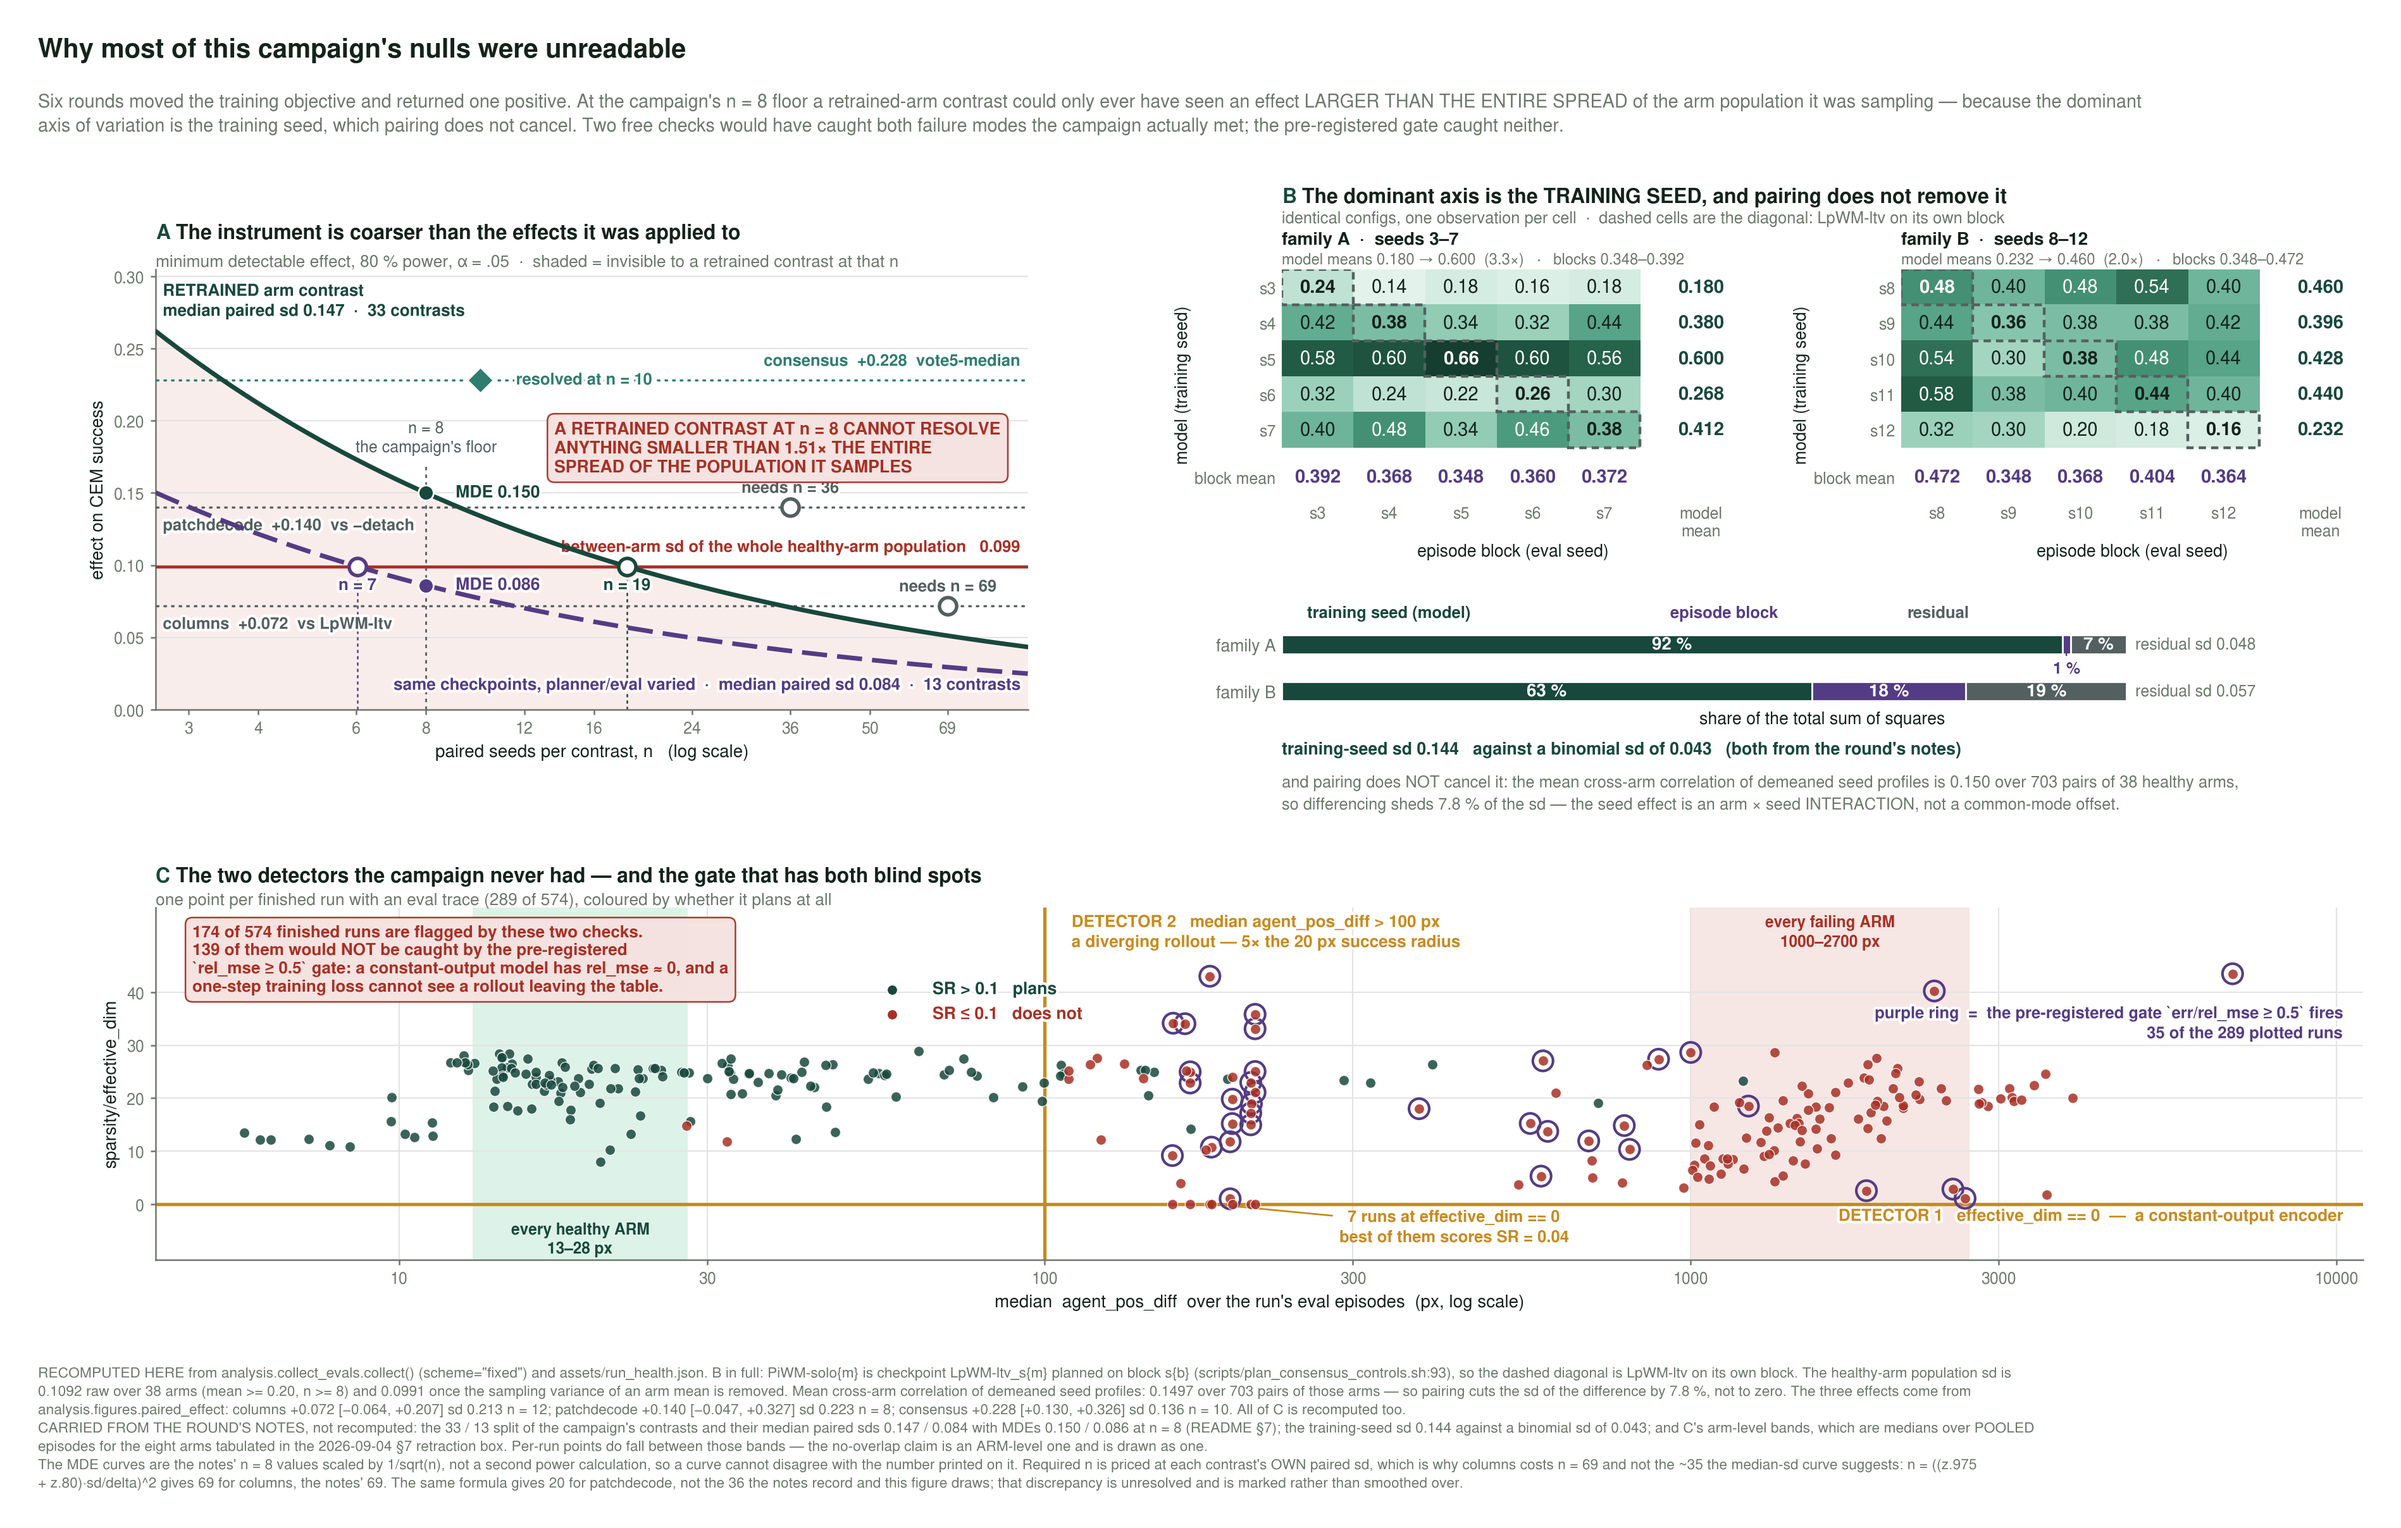
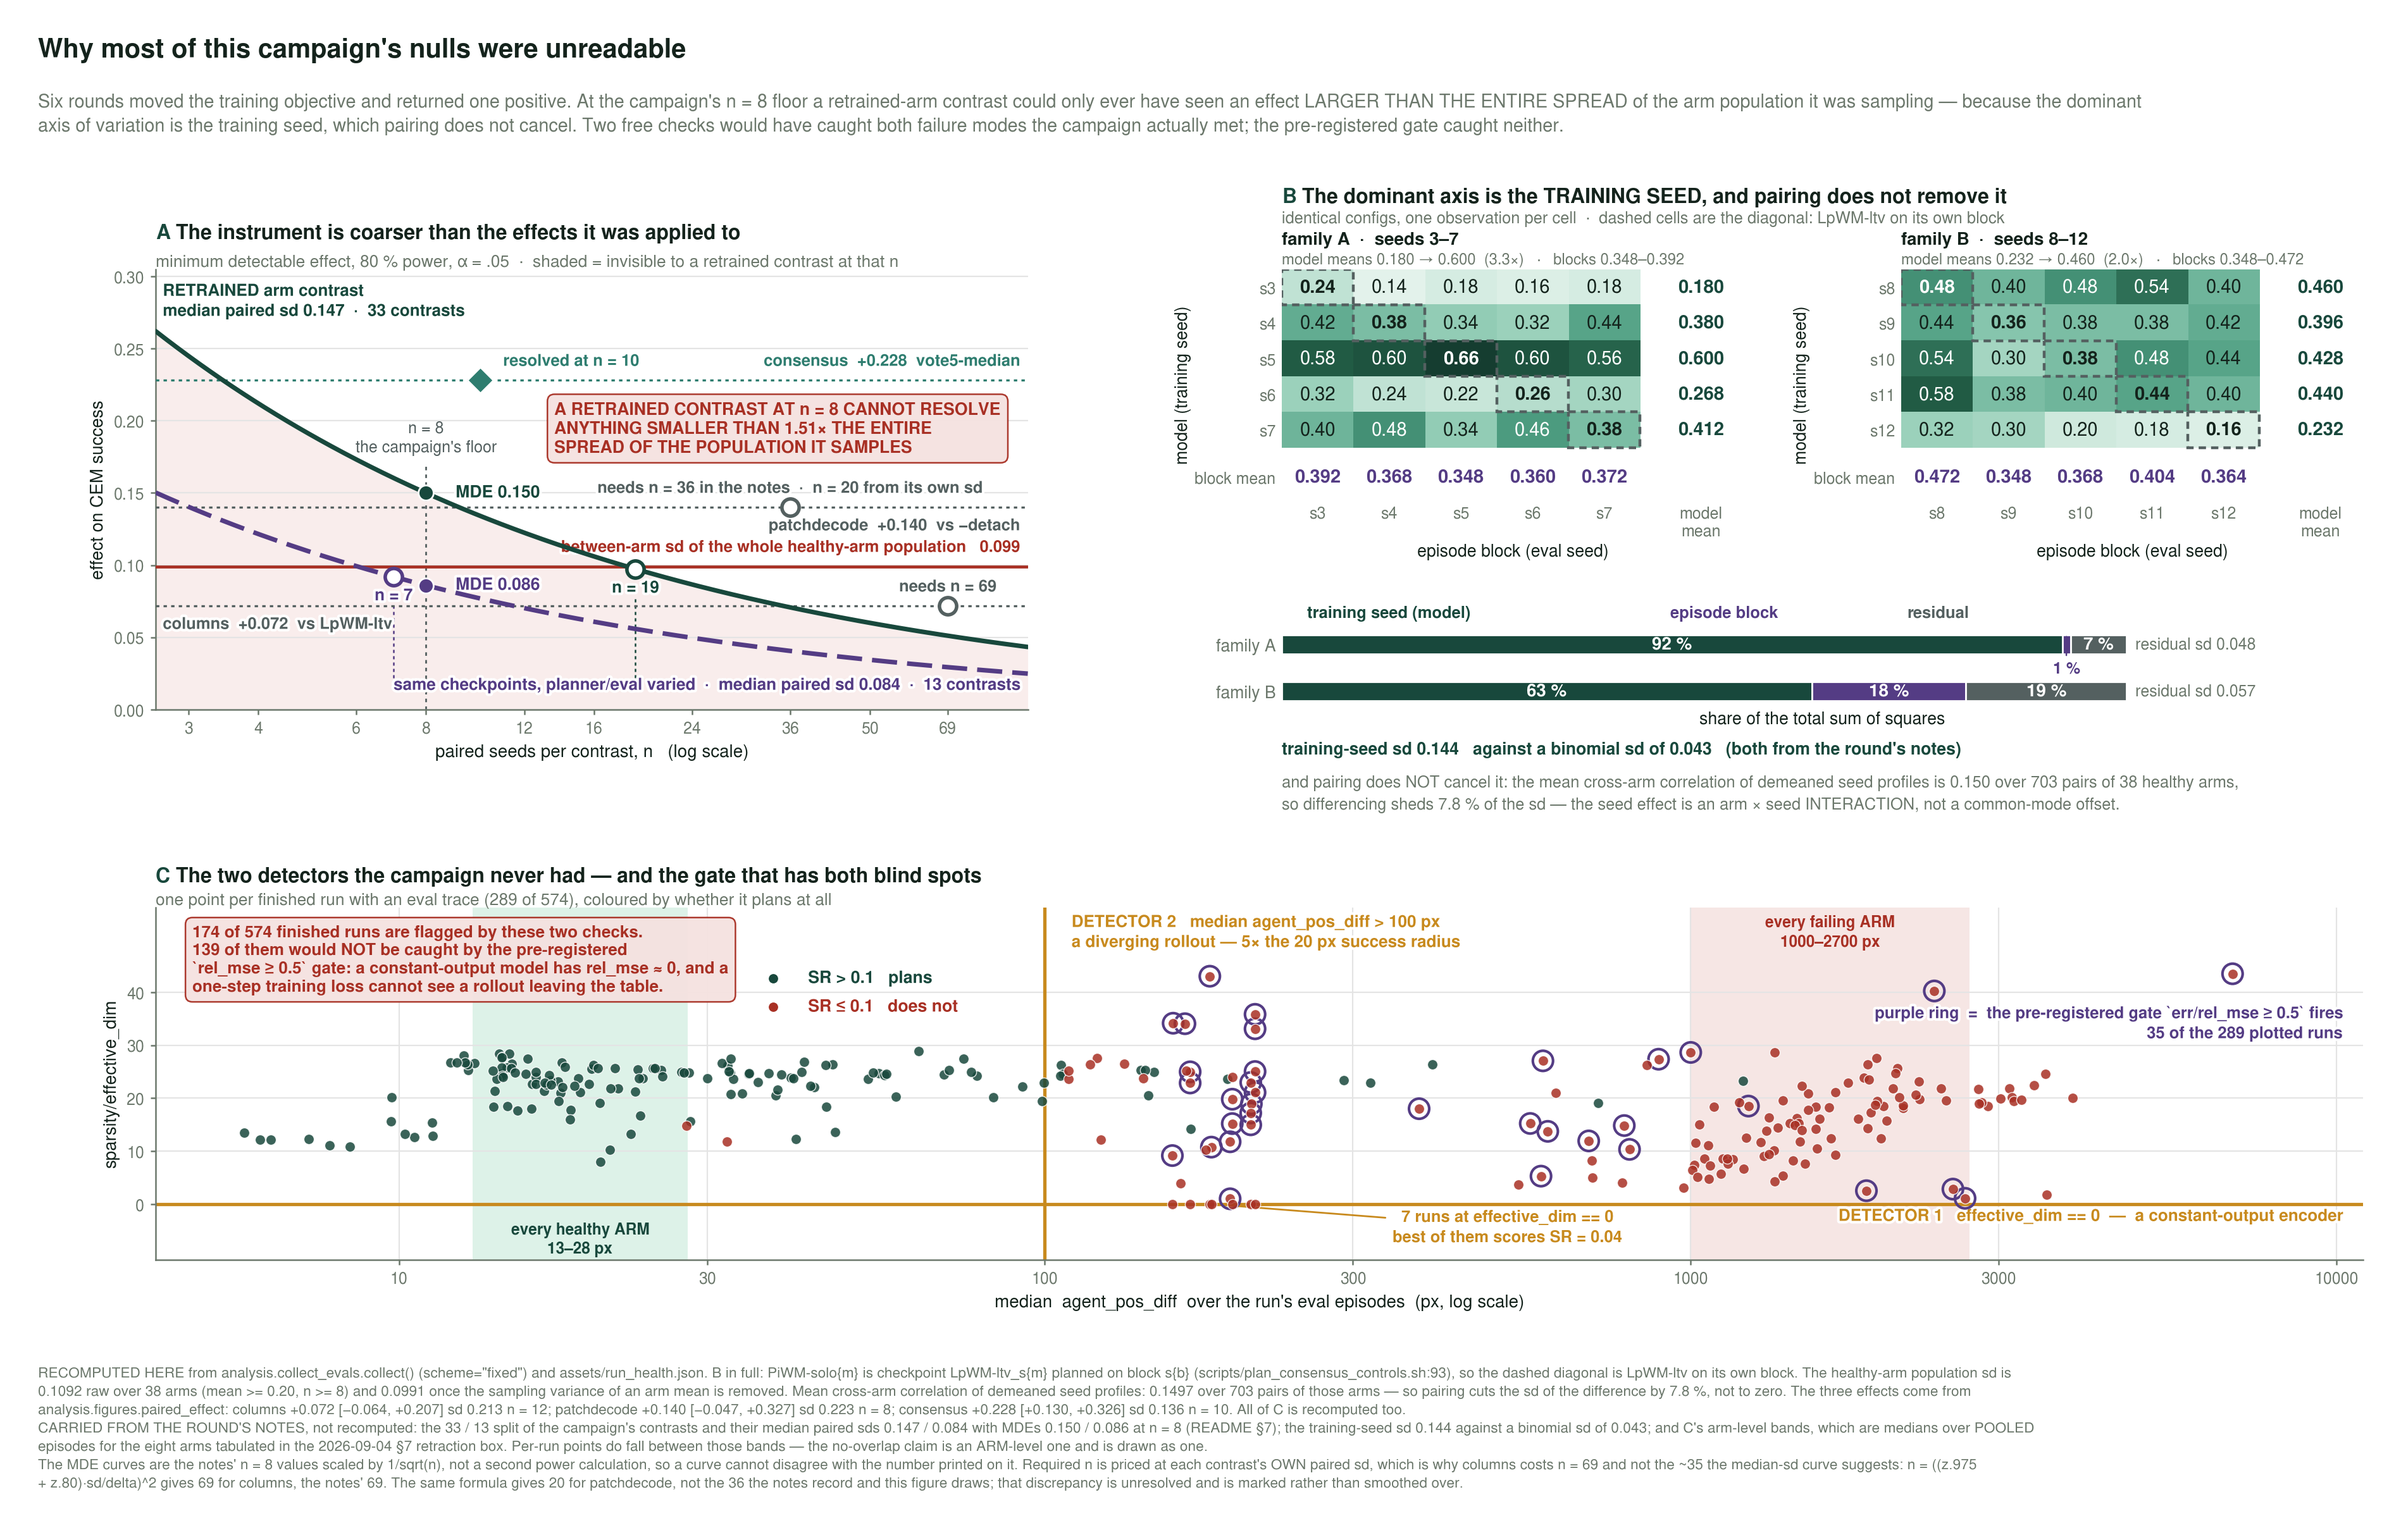
two of this diary's own numbers do not survive recomputation
Both found while rebuilding the round-7 figures, by recomputing every quoted number
from the archive instead of copying it forward.

1. patchdecode needs n = 20, not n = 36. Required-n is ((z.975+z.80)*sd/delta)^2 on
   each contrast's own paired sd. The columns figure reproduces exactly (69.4 vs the
   quoted 69), so the formula and pipeline are right; only patchdecode is wrong
   (delta +0.140, sd 0.2235, n=8 -> 20.0). Not a mis-attributed contrast either: the
   other two pairings give 14.6 and 3938, and reproducing 36 would need sd = 0.2998,
   which no pairing has. This runs in patchdecode's favour -- I cancelled S4 citing a
   price two-thirds higher than the true one. The cancellation still stands at n -> 12.

2. The "13-28 px vs 1000-2700 px, no overlap" separation is an eight-arm claim, not an
   archive-wide one. Over all 49 arms with traces the ranges overlap: worst healthy arm
   PiWM-support-w0p1 at 1138 px, best failing arm PiWM-actinfo at 122 px. Per run,
   SR>0.1 spans 5.8-1204.5 and SR<=0.1 spans 27.9-6902.7.

   The detector is still good -- 273/289 runs correct at a 100 px threshold (94.5%),
   catching 145/147 failing runs. But 14 healthy runs sit above the line, so it is a
   FLAG, not a gate: gating on it would discard about a tenth of the healthy
   population. "No overlap" would have licensed the gate. §2d and the P1b' entry are
   amended, and the quoted retraction boxes in 2026-09-04 and README carry a pointer
[…]

diff --git a/diary/2026-09-05.md b/diary/2026-09-05.md
@@ -16,6 +16,12 @@ The reason is a measurement that needed no dynamics, no contrast and no new GPU-
 the probe had already been run and its answer was sitting in `assets/latent_probe_columns*.json`
 unread.
 
+**Two corrections to this diary's own numbers are in §7**, both found by recomputing every quoted
+figure from the archive while rebuilding the figures: `patchdecode` needs **n = 20**, not the n = 36
+I cancelled it over, and the `agent_pos_diff` divergence detector is **94.5 % accurate**, not the
+clean separator the eight tabulated arms suggested. The second one changes how the detector may be
+used — flag, not gate.
+
 ---
 
 ## 1. The measurement that redirects the campaign
@@ -145,7 +151,8 @@ Three numbers govern everything below:
 | the effect S2 exists to resolve (`columns` vs baseline) | **+0.072**, paired sd **0.213** |
 
 **Detecting +0.072 at 80 % power needs n = 69 seeds.** S2 as launched (n = 12 → 15) cannot
-answer its own question, and neither can S4 (effect +0.140 → n = 36 needed, launched at n → 12).
+answer its own question, and neither can S4 (effect +0.140 → **n = 20** needed, launched at n → 12).
+*(Corrected from n = 36 — see §7.1.)*
 Adding three or four seeds to a contrast that needs forty more is theatre.
 
 Two escape routes were tested and one is closed:
@@ -201,6 +208,11 @@ examined.
 > `median agent_pos_diff` is a good one — 13–28 px for every healthy arm against 1000–2700 px for
 > every failing one, with no overlap. It is free, it comes from traces already on disk, and
 > unlike `rel_mse` it cannot be fooled by a constant-output model.
+
+**Amended below in §7.2.** The "no overlap" holds for the eight arms tabulated in that box, not for
+the archive: over all 49 arms with traces the ranges overlap. The detector is 94.5 % accurate at
+100 px, which makes it a flag rather than a gate.
+
  It is also not a representation gap: probing the frozen latent for the agent's position
 gives **R² = 0.968**, *better* than the block's 0.919. The information is present, the metric
 scores it, and the planner does not use it.
@@ -224,9 +236,11 @@ replaces it is smaller but real:**
   for healthy arms is ≈ 0.02 once divergence is excluded (0.580 → 0.560 for the baseline), not
   0.22, and healthy arms already park on 83–87 % of the episodes where they place the block, at a
   median error of 13–28 px. There is no 0.22 to recover.
-* **P1b′ (replacement).** Add **`median agent_pos_diff`** as a standing divergence diagnostic. It
-  separates every healthy arm (13–28 px) from every failing one (1000–2700 px) with no overlap,
-  costs nothing, and — unlike `rel_mse ≥ 0.5` — cannot be fooled by a constant-output model. Pair
+* **P1b′ (replacement).** Add **`median agent_pos_diff`** as a standing divergence diagnostic.
+  Across the whole archive it is **94.5 % accurate at a 100 px threshold** (273/289 runs), *not*
+  the perfect separator the 13–28 / 1000–2700 px figures suggest — those are eight tabulated arms,
+  and over all 49 arms with traces the ranges overlap (§7.2). It still costs nothing and — unlike
+  `rel_mse ≥ 0.5` — cannot be fooled by a constant-output model. Pair
   it with `effective_dim == 0`; between them they catch both failure modes the campaign has met.
 * **P1c.** Why does consensus pay 0.057 where everything else pays 0.22? Committee-vs-member on
   the parking term specifically, using the `PiWM-soloM` matrix already on disk.
@@ -333,8 +347,8 @@ for.
 
 * **The `TOKEN_DROP` ladder (32 runs).** It varies the token count at **fixed** capacity, so it
   cannot separate tokens from capacity — the question the grid above exists to answer.
-* **S2 and S4's extra seeds (11 runs).** They need n = 69 and n = 36; they were launched at
-  n = 15 and n = 12.
+* **S2 and S4's extra seeds (11 runs).** They need n = 69 and **n = 20** (corrected from 36,
+  §7.1); they were launched at n = 15 and n = 12.
 
 ## 2d. The two detectors the campaign never had
 
@@ -348,7 +362,10 @@ failure modes actually encountered:
   have their **highest-scoring** seeds in this state, which inverts their ranking.
 * **`median agent_pos_diff > 100 px`** — a diverged rollout. Nothing in the training logs sees
   it: the model can be a fine 1-step predictor and still drive the simulation off the table.
-  Every healthy arm sits at **13–28 px**; every failing one at **1000–2700 px**; no overlap.
+  On the eight arms tabulated in the 2026-09-04 §7 box, healthy sits at **13–28 px** and failing
+  at **1000–2700 px**. **That is not archive-wide** — over all 49 arms with traces the ranges
+  overlap, and the threshold is a good classifier rather than a clean separator: **273/289 runs
+  correct, with 14 healthy runs above 100 px** (§7.2). Use it to flag, not to gate.
 
 **Of the runs these two flag, 139 would not be caught by `rel_mse ≥ 0.5`.** Both are free — one
 reads a wandb summary, the other reads traces already on disk.
@@ -451,7 +468,8 @@ baseline's rate, then width genuinely buys planning **while leaving the latent o
 
 ### S4 · patchdecode at more seeds — ~~8 runs~~ **CANCELLED (see §2b)**
 
-> Detecting +0.140 needs **n = 36**; four extra seeds reach n = 12. `patchdecode` remains the
+> Detecting +0.140 needs **n = 20** *(corrected from 36, §7.1)*; four extra seeds reach n = 12.
+> `patchdecode` remains the
 > campaign's highest non-consensus arm mean (0.520) and is worth answering — at its real price,
 > not at a tenth of it.
 
@@ -507,3 +525,57 @@ Regenerate this entry's figures:
 python analysis/round7_figs.py --out diary/assets/2026-09-05
 python analysis/round7_arch_figs.py --out diary/assets/2026-09-05
 ```
+
+## 7. Two numbers in this diary do not survive recomputation
+
+Both were found while rebuilding the round-7 figures, by recomputing every quoted number from the
+archive instead of copying it forward. Both are errors in my own text, and both are recorded here
+rather than silently edited, because the point of §2b is that a number nobody re-derives is a number
+nobody has checked.
+
+### 7.1 `patchdecode` needs n = 20, not n = 36
+
+The required-n figures in §2b come from the two-sided normal approximation at 80 % power,
+`n = ((z₀.₉₇₅ + z₀.₈₀) · sd / δ)²`, applied to each contrast's **own** paired sd.
+
+| contrast | δ | paired sd | n | recomputed n_req | diary said |
+|---|---|---|---|---|---|
+| `columns` vs baseline | +0.0717 | 0.2131 | 12 | **69.4** | 69 ✓ |
+| `patchdecode` vs `-detach` | +0.1400 | 0.2235 | 8 | **20.0** | 36 ✗ |
+
+`columns` reproduces exactly, so the formula and the pipeline are right; only the `patchdecode`
+figure is wrong. It is not a mis-attributed contrast either — the two other pairings give 14.6
+(`patchdecode` vs `LpWM-ltv`) and 3938 (`-detach` vs `LpWM-ltv`), and reproducing 36 at δ = +0.140
+would need a paired sd of 0.2998, which no pairing has.
+
+**This runs in `patchdecode`'s favour and the conclusion still holds.** S4 was cancelled for being
+under-powered at n → 12; the real requirement is 20, not 36, so the shortfall is 8 seeds rather than
+24. Worth stating plainly: I cancelled it citing a price two-thirds higher than the true one.
+
+### 7.2 The px separation is an eight-arm claim, not an archive-wide one
+
+The 2026-09-04 §7 retraction box says `median agent_pos_diff` gives *"13–28 px for every healthy arm
+against 1000–2700 px for every failing one, with no overlap."* That is true of the **eight arms it
+tabulates**. It is not true of the archive:
+
+| | n | px range |
+|---|---|---|
+| per run, SR > 0.1 | 142 | 5.8 – 1204.5 |
+| per run, SR ≤ 0.1 | 147 | 27.9 – 6902.7 |
+| per arm, healthy | 27 | 7.5 – 1138.3 |
+| per arm, failing | 22 | 122.0 – 2966.7 |
+
+The ranges overlap at both levels. The worst healthy arm is `PiWM-support-w0p1` at **1138 px** and
+the best failing arm is `PiWM-actinfo` at **122 px**.
+
+**The detector is still good — it is just not perfect.** At the 100 px threshold it gets
+**273 of 289 runs right (94.5 %)**: 145/147 failing runs caught, 128/142 healthy runs cleared, with
+**14 healthy runs above 100 px** and 2 failing runs below it.
+
+That distinction decides how it may be used. "No overlap" would license a **hard gate**; 94.5 %
+does not — gating on it would discard 14 healthy runs, about a tenth of the healthy population. So
+`agent_pos_diff > 100 px` stays a **flag**, reported beside SR, and never a kill condition. §2d and the P1b′ entry in §1 are amended accordingly.
+
+This is the same failure as the `d_action` units error and the `h8/h1` collapse detector: a
+diagnostic that looked clean on the handful of arms I inspected, promoted to a rule before it was
+measured on the rest.

diff --git a/diary/README.md b/diary/README.md
@@ -616,6 +616,13 @@ The ordering is largely preserved (Spearman(official, block-only) ≈ 0.96 acros
 > every failing one, with no overlap. It is free, it comes from traces already on disk, and
 > unlike `rel_mse` it cannot be fooled by a constant-output model.
 
+**Amended 2026-09-05.** The "no overlap" in the line above holds for the eight arms tabulated here,
+not for the archive. Over all 49 arms with traces the ranges overlap (worst healthy arm 1138 px,
+best failing arm 122 px). At a 100 px threshold the detector is **94.5 % accurate (273/289 runs)**
+with 14 healthy runs above the line — good enough to flag on, not to gate on. See
+[2026-09-05 §7.2](2026-09-05.md).
+
+
 
 #### 2. The instrument is coarser than the effects it was applied to
 

diff --git a/diary/2026-09-04.md b/diary/2026-09-04.md
@@ -540,6 +540,13 @@ comparisons stand; the absolute readings do not.
 > every failing one, with no overlap. It is free, it comes from traces already on disk, and
 > unlike `rel_mse` it cannot be fooled by a constant-output model.
 
+**Amended 2026-09-05.** The "no overlap" in the line above holds for the eight arms tabulated here,
+not for the archive. Over all 49 arms with traces the ranges overlap (worst healthy arm 1138 px,
+best failing arm 122 px). At a 100 px threshold the detector is **94.5 % accurate (273/289 runs)**
+with 14 healthy runs above the line — good enough to flag on, not to gate on. See
+[2026-09-05 §7.2](2026-09-05.md).
+
+
 
 #### The instrument could not resolve most of what round 6 asked it
 
